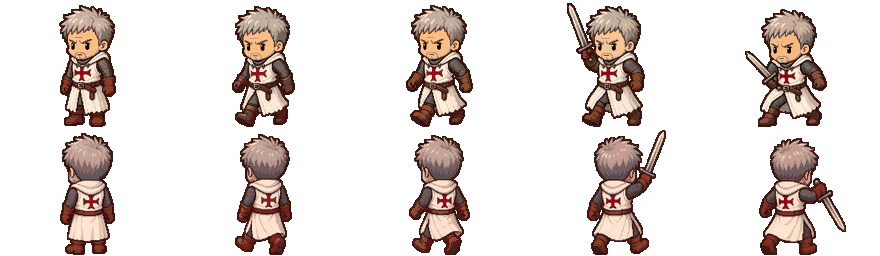
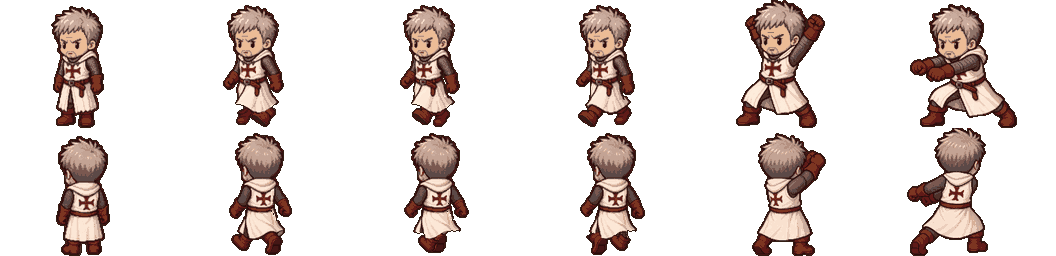
Art test round 7: Renaud full left/right walk steps (stepL, pass, stepR) + empty-handed attacks with weapon layer at per-frame hand anchors; timings in CONFIG.artTest

diff --git a/src/main.js b/src/main.js
@@ -348,18 +348,33 @@ function unitScreenPos(u, now) {
 }
 
 // ?art=test — style-test sprite sheet for Renaud only; default build unchanged.
-// Sheet: 5 cols x 2 rows of 176x128 cells (row 0 front, row 1 back): stand, walk1, walk2, atk1, atk2.
+// Sheet + timings + hand anchors: CONFIG.artTest (cols: stand, stepL, pass, stepR, windup, swing; row 0 front, row 1 back).
+// Body frames are always empty-handed; during an attack the weapon sprite is drawn at the frame's hand anchor.
+const AT = CONFIG.artTest;
 const ART_TEST = typeof location !== 'undefined' && /[?&]art=test\b/.test(location.search) ? (() => {
-  const img = new Image(); img.src = 'assets/art-test/renaud-sheet.png'; return { img, atk: new Map() };
+  const img = new Image(); img.src = AT.sheet;
+  const weapons = {};
+  for (const [id, w] of Object.entries(AT.weapons)) { const wi = new Image(); wi.src = w.src; weapons[id] = { img: wi, grip: w.grip }; }
+  return { img, weapons, atk: new Map(), force: new Map() };
 })() : null;
-const ART_IDLE = [1, 0, 2, 0]; // walk-in-place loop (FFT-style ping-pong through the stand frame)
 function artFrame(u, a, now, isActive) {
+  const F = AT.frames;
+  if (ART_TEST.force.has(u.id)) return ART_TEST.force.get(u.id); // test hook: hold one frame
   if (a && a.type === 'lunge' && ART_TEST.atk.get(u.id) !== a.t0) ART_TEST.atk.set(u.id, a.t0);
   const at = ART_TEST.atk.get(u.id);
-  if (at != null && now - at < 520) return now - at < 200 ? 3 : 4;   // wind-up, then swing (held)
-  if (a && a.type === 'move') return 1 + (Math.floor(now / 130) % 2);  // walking
-  if (isActive) return 0;                                             // standing frame on his turn
-  return ART_IDLE[Math.floor(now / 210) % 4];                         // idle walk-in-place
+  if (at != null && now - at < AT.attackMs) return now - at < AT.windupMs ? F.windup : F.swing; // wind-up, then swing (held)
+  if (a && a.type === 'move') return AT.walk[Math.floor(now / AT.moveFrameMs) % AT.walk.length]; // walking along a path
+  if (isActive) return F.stand;                                                                   // standing frame on his turn
+  return AT.walk[Math.floor(now / AT.idleFrameMs) % AT.walk.length];                             // idle walk-in-place
+}
+// Weapon layer: draw weapon `id` gripped at the hand anchor of frame f (cell px, unmirrored art space).
+function drawArtWeapon(f, back, id, sc, ox, oy) {
+  const name = AT.cols[f], hand = AT.hand[back ? 'back' : 'front'][name], w = ART_TEST.weapons[id];
+  if (!hand || !w || !w.img.complete || !w.img.naturalWidth) return;
+  ctx.save();
+  ctx.translate(ox + hand[0] * sc, oy + hand[1] * sc); ctx.rotate(hand[2] * Math.PI / 180); ctx.scale(sc, sc);
+  ctx.drawImage(w.img, -w.grip[0], -w.grip[1]);
+  ctx.restore();
 }
 function drawUnit(u, now) {
   const { k } = layout;
@@ -393,9 +408,11 @@ function drawUnit(u, now) {
   ctx.scale(k * flip, k);
   const artOn = ART_TEST && u.companion === 'renaud' && ART_TEST.img.complete && ART_TEST.img.naturalWidth;
   if (artOn) { // ?art=test: sheet sprite (art faces left, so mirror)
-    const f = artFrame(u, a, now, isActive), sc = 58 / 120;
+    const f = artFrame(u, a, now, isActive), sc = AT.drawHeightPx / 120, [cw, ch] = AT.cell;
+    const ox = -cw / 2 * sc, oy = -126 * sc + 3;
     ctx.save(); ctx.scale(-1, 1);
-    ctx.drawImage(ART_TEST.img, f * 176, back ? 128 : 0, 176, 128, -88 * sc, -126 * sc + 3, 176 * sc, 128 * sc);
+    ctx.drawImage(ART_TEST.img, f * cw, back ? ch : 0, cw, ch, ox, oy, cw * sc, ch * sc);
+    if (f === AT.frames.windup || f === AT.frames.swing) drawArtWeapon(f, back, AT.placeholderWeapon, sc, ox, oy);
     ctx.restore();
   } else {
   // legs
@@ -1253,5 +1270,6 @@ window.__outremer = {
   forceWin() { if (S.over) return false; for (const u of S.units) if (u.team === 'enemy') u.hp = 0; G.checkOver(S); finish(); return S.over; },
   // ... and a defeat: your whole squad falls (Retry / Back to board)
   forceLose() { if (S.over) return false; for (const u of S.units) if (u.team === 'player' && !u.npc) u.hp = 0; G.checkOver(S); finish(); return S.over; },
+  artForce(id, f) { if (ART_TEST) { if (f == null) ART_TEST.force.delete(id); else ART_TEST.force.set(id, f); } }, // ?art=test: hold a sheet frame (tests)
   G, CONFIG,
 };

diff --git a/src/config.js b/src/config.js
@@ -419,6 +419,30 @@ export const CONFIG = {
     // AI picks its own end-of-turn facing: toward the nearest foe
   },
 
+  // ---------------------------------------------------------------- ?art=test battle sprite (Renaud only)
+  // Sheet: 6 cols x 2 rows of 176x128 cells (row 0 front, row 1 back; art faces left, mirrored in game).
+  // Body frames are empty-handed; weapons are their own sprites drawn at the hand anchor during attacks.
+  artTest: {
+    sheet: 'assets/art-test/renaud-sheet.png',
+    cell: [176, 128],
+    drawHeightPx: 58,          // drawn figure height at scale 1 (tile width 64)
+    cols: ['stand', 'stepL', 'pass', 'stepR', 'windup', 'swing'],
+    frames: { stand: 0, stepL: 1, pass: 2, stepR: 3, windup: 4, swing: 5 },
+    walk: [1, 2, 3, 2],        // left foot, pass, right foot, pass (idle walk-in-place and moving)
+    idleFrameMs: 210,          // idle walk-in-place, per frame
+    moveFrameMs: 130,          // walking along a path, per frame
+    windupMs: 200,             // attack: wind-up frame, then swing held until attackMs
+    attackMs: 520,
+    // hand anchor per facing per attack frame: [x, y, angleDeg] in cell px (unmirrored art space);
+    // angle 0 = weapon pointing straight up, + = clockwise. The weapon's grip point lands on [x, y].
+    hand: {
+      front: { windup: [111, 25, 35], swing: [37, 66, -105] },
+      back: { windup: [111, 32, 25], swing: [33, 64, -100] },
+    },
+    weapons: { sword: { src: 'assets/art-test/weapon-sword.png', grip: [6, 49] } }, // grip = px in the weapon sprite
+    placeholderWeapon: 'sword',
+  },
+
   // ---------------------------------------------------------------- presentation
   view: {
     tileHeightPx: 16,        // vertical px per height level (at scale 1, tile width 64)

diff --git a/docs/art-test/README.md b/docs/art-test/README.md
@@ -67,3 +67,15 @@ The spec is in `ffta2-sprite-anim-notes.md`. Renaud is unarmed when idle or walk
 - Preview: `renaud-anim.gif` (3×) and `sheet.png`.
 
 Prompts: front sheet, with the v5 front sprite as reference: "pixel-art sprite sheet of this exact same chibi Templar knight…ONE horizontal row of 5 poses, magenta background: 1) standing still, UNARMED, no shield; 2) walking-in-place step, left foot forward; 3) right foot forward; 4) attack wind-up, sword raised; 5) attack swing." Back sheet: the same, but "every pose seen from BEHIND, three-quarter back view facing up-left". The back retry: "ONE row of 4 poses, ONLY FROM BEHIND, NO face visible: walk L, walk R, wind-up from behind, swing from behind."
+
+# Round 7 (v7/) — full left/right walk steps + empty-handed attacks with a weapon layer (Renaud)
+
+Cletus on round 6: each walk frame must be a full step, left foot then right foot (round 6 only had stand → right-foot step, so the left foot never showed). And weapons will be their own sprites painted on during attacks.
+
+- **Sheet:** now **6×2 cells** of 176×128: `stand, stepL, pass, stepR, windup, swing` (row 0 front, row 1 back). Timings, frame order, hand anchors and the weapon list live in `CONFIG.artTest` (`src/config.js`); the same metadata is in `assets/art-test/renaud-sheet.json`.
+- **Walk = left step, pass, right step, pass** (`artTest.walk = [1, 2, 3, 2]`, 210 ms idle / 130 ms moving). His own turn shows `stand`.
+- **How the steps were made (consistency first):** the image model kept drawing the *same* leg forward however it was asked (4 tries: strip prompt, "swap the legs" edit, cleanup of a hand-made swap). So only ONE step per facing was generated (front: a stand+step strip; back: a stand+step strip). The opposite step and the pass frame were **derived in code from that same image**: the two boots are cut out below the tabard hem and their positions swapped (toe direction kept, so he still faces the same way), the gap to the hem filled with dark leg, and the arms re-swung opposite to the legs by stretching one forearm down and shortening the other. All three walk frames per facing come from one source image and one transform, so the **head, hair, face and torso are pixel-identical** across stepL/pass/stepR (only legs, hem and arms change). A plain mirror was rejected: it flips his 3/4 facing.
+- **Attacks are empty-handed** (fists closed on an invisible hilt; 3 generations: front wind-up+swing strip, back wind-up+swing strip, and a back swing redo because the strip drew it from the front). Each attack frame has a **hand anchor** `[x, y, angleDeg]` in cell pixels (unmirrored, art faces left). A weapon sprite (`assets/art-test/weapon-sword.png`, a placeholder sword, grip point `[6, 49]`) is drawn with its grip on the anchor, rotated, inside the same mirrored transform as the body, so it follows all four facings.
+- **Post-processing:** magenta keyed by chroma; premultiplied Lanczos downscale (front stand = 120 px tall, back stand = 118); one shared 19-colour median-cut palette for all 12 frames + the #341E14 1 px outline = 20 colours; specks removed and pinholes filled.
+- **Known rough spots:** the `stand` frame and the attack frames are separate generations, so the face is redrawn slightly differently from the walk frames (stand is only held on his turn, so it doesn't flicker). The derived step's hem edge where the old boot was has a few stray pixels. The front wind-up has the fists apart (cheer pose) rather than together on a hilt; the anchor uses the rear fist.
+- Previews: `v7/sheet.png` (labelled, anchors marked), `v7/renaud-walk.gif` (3×, front and back), `v7/ingame-zoom.png` (iPhone 13, every frame forced in game, weapons drawn at the anchors).

diff --git a/docs/art-test/ffta2-sprite-anim-notes.md b/docs/art-test/ffta2-sprite-anim-notes.md
@@ -8,17 +8,20 @@
 - **Other single- or few-frame poses:** taking damage (front and back), dodge or guard, critical (low-HP kneel), dead, jump up and down, charging or casting (looped), cast execute, plus special per-ability animations.
 - **Size:** DS sprite cells are about 32–36 px, and the figure is about 28–32 px tall (2.5–3 heads) on a tile diamond about 32 px wide. The unit is about 1 tile wide and 2 tile-heights tall.
 
-## Our spec
-Cell: **176×128 px** at master size, with the feet 2 px above the bottom edge and the body centered horizontally. It's drawn in game at about 58 base px tall (tile width is 64 base px). Rows: 0 = front (down-left), 1 = back (up-left). Down-right and up-right are mirrors.
+## Our spec (round 7)
+Cell: **176×128 px** at master size, feet on the bottom row (outline at y = 127), head centred at x = 88. Drawn in game at `CONFIG.artTest.drawHeightPx` (58) base px tall (tile width is 64 base px). Rows: 0 = front (down-left), 1 = back (up-left). Down-right and up-right are mirrors. Everything below is in `CONFIG.artTest`.
 
-| Anim | Frames (cols) | Timing | When |
-|---|---|---|---|
-| stand | 0 | held | the unit's own turn (menu open, choosing) |
-| idle walk-in-place | 1, 0, 2, 0 | 210 ms each | everyone not acting |
-| walk (moving) | 1, 2 | 130 ms each | while moving along a path |
-| attack | 3 (wind-up), 4 (swing) | 200 ms, then 320 ms | when attacking; **the weapon exists only in these frames** |
-| hurt / guard / KO / cast | (planned) one frame each | 300 ms or held | later: hit flash for now, fade on KO |
+| Col | Frame | Use |
+|---|---|---|
+| 0 | stand | the unit's own turn (menu open, choosing), held |
+| 1 | stepL | walk: left foot forward, right arm forward |
+| 2 | pass | walk: feet together under the hem, arms half-swung |
+| 3 | stepR | walk: right foot forward, left arm forward |
+| 4 | windup | attack, 200 ms (`windupMs`) — **empty-handed** |
+| 5 | swing | attack, held until 520 ms (`attackMs`) — **empty-handed** |
 
-- Shields are stowed (not drawn) when idle or walking, and could appear in a future guard frame.
-- The weapon is baked into the attack frames for now. A separate weapon overlay layer (FFT-style, one set of swing frames per weapon type) is the scalable version once there's gear.
-- Each frame gets a palette reduction (about 20 colors) and a 1 px #341E14 outline.
+- **Walk / idle:** `walk = [1, 2, 3, 2]` (left, pass, right, pass). Idle walk-in-place at 210 ms per frame (`idleFrameMs`); moving along a path at 130 ms (`moveFrameMs`). Every frame is a full step: the left and right steps differ in which leg is forward, so the loop reads as walking in place, FFTA2-style.
+- **Weapon layer (decision, round 7):** body frames never contain a weapon. Each attack frame records a **hand anchor** `hand[facing][frame] = [x, y, angleDeg]` (cell px, unmirrored art space, angle 0 = weapon pointing up, + = clockwise). A weapon sprite has a **grip point**; in game it is drawn with the grip on the anchor, rotated by the angle, inside the body's mirror transform. One body animation therefore works with any weapon sprite (FFT-style). Today there is one placeholder, `weapons.sword`. Later: per-weapon-type sprites (sword, spear, bow…) and possibly per-frame weapon poses; anchors for guard/cast frames when those exist.
+- Shields are stowed (not drawn) when idle or walking, and could appear in a future guard frame as another layer.
+- Planned single frames: hurt, guard, KO, cast (hit flash and fade for now).
+- Each frame: shared ~20-colour palette and a 1 px #341E14 outline.

diff --git a/docs/DESIGN.md b/docs/DESIGN.md
@@ -23,7 +23,7 @@ Working title. Isometric tactics, FFTA/FFTA2 lineage, Knights Templar during the
 - **Wounds:** a fallen companion is Wounded for the next battle; the hero falling loses the battle.
 - **Abilities:** no cooldowns (v0.13); build research fix 1 (forecast + tally) and fix 4 (deadly edges, non-kill goals). Rejected: attack-plus retune, frontal riposte, intent for everyone. Magic + MP later.
 - **Story:** mythology central; premise still to be written (dedicated story session); scenes in-engine with sprites and portrait text boxes, no pre-rendered cutscenes.
-- **Art / platform / tech:** 2D sprites on iso tiles, FFTA2-style portraits (by Tancred); phone first + Steam with controller (Switch a stretch); TypeScript + a renderer (e.g. PixiJS), Capacitor, Tauri/Electron, keep the sim.
+- **Art / platform / tech:** 2D sprites on iso tiles, FFTA2-style portraits (by Tancred); battle sprites follow FFTA2: idle = walk-in-place (left step, pass, right step), a separate stand frame for the unit's turn, and **weapons as their own sprite layer** drawn at a per-frame hand anchor during attacks, so body frames are always empty-handed (art test round 7, `CONFIG.artTest`, `docs/art-test/ffta2-sprite-anim-notes.md`); phone first + Steam with controller (Switch a stretch); TypeScript + a renderer (e.g. PixiJS), Capacitor, Tauri/Electron, keep the sim.
 
 ## Core loop (slice)
 Battle only: 3 Templars vs 3 Raiders on an 8×8 height-mapped iso map. On your unit's turn: **Move** (optional) and **Act** (optional) in either order, then the turn ends. Win by defeating all raiders; lose if all Templars fall. Victory/Defeat screen → Play again.
